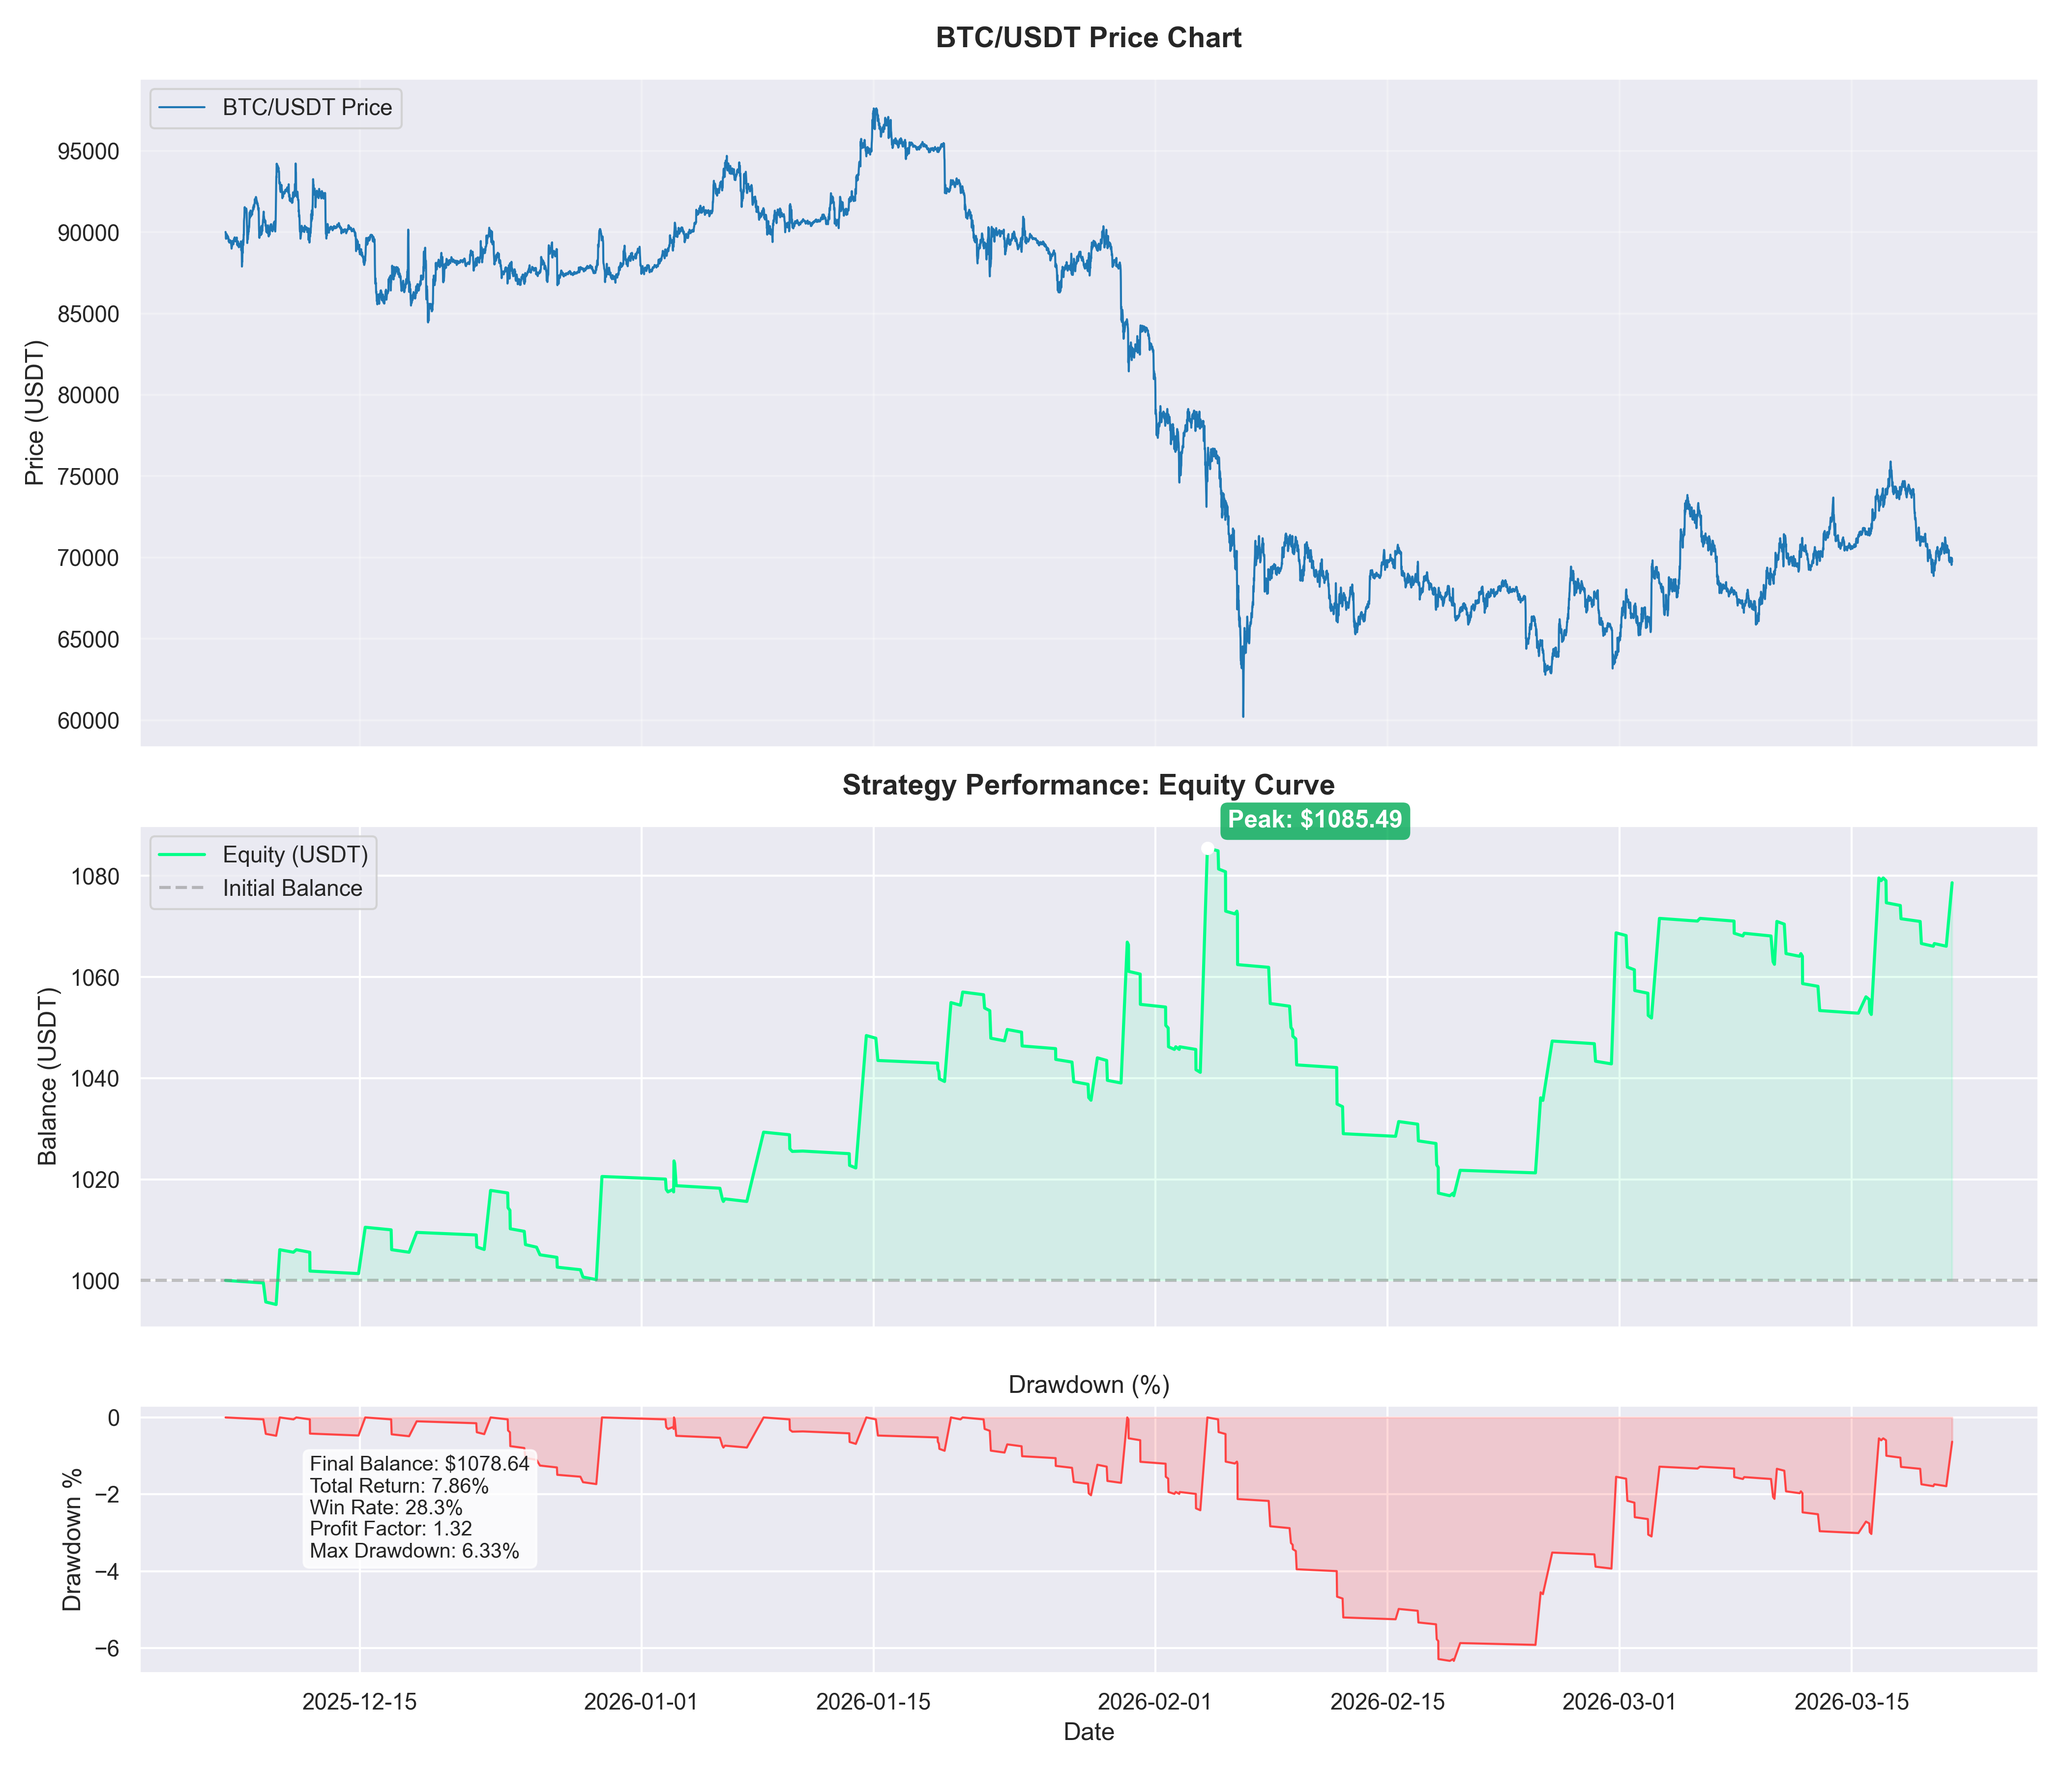
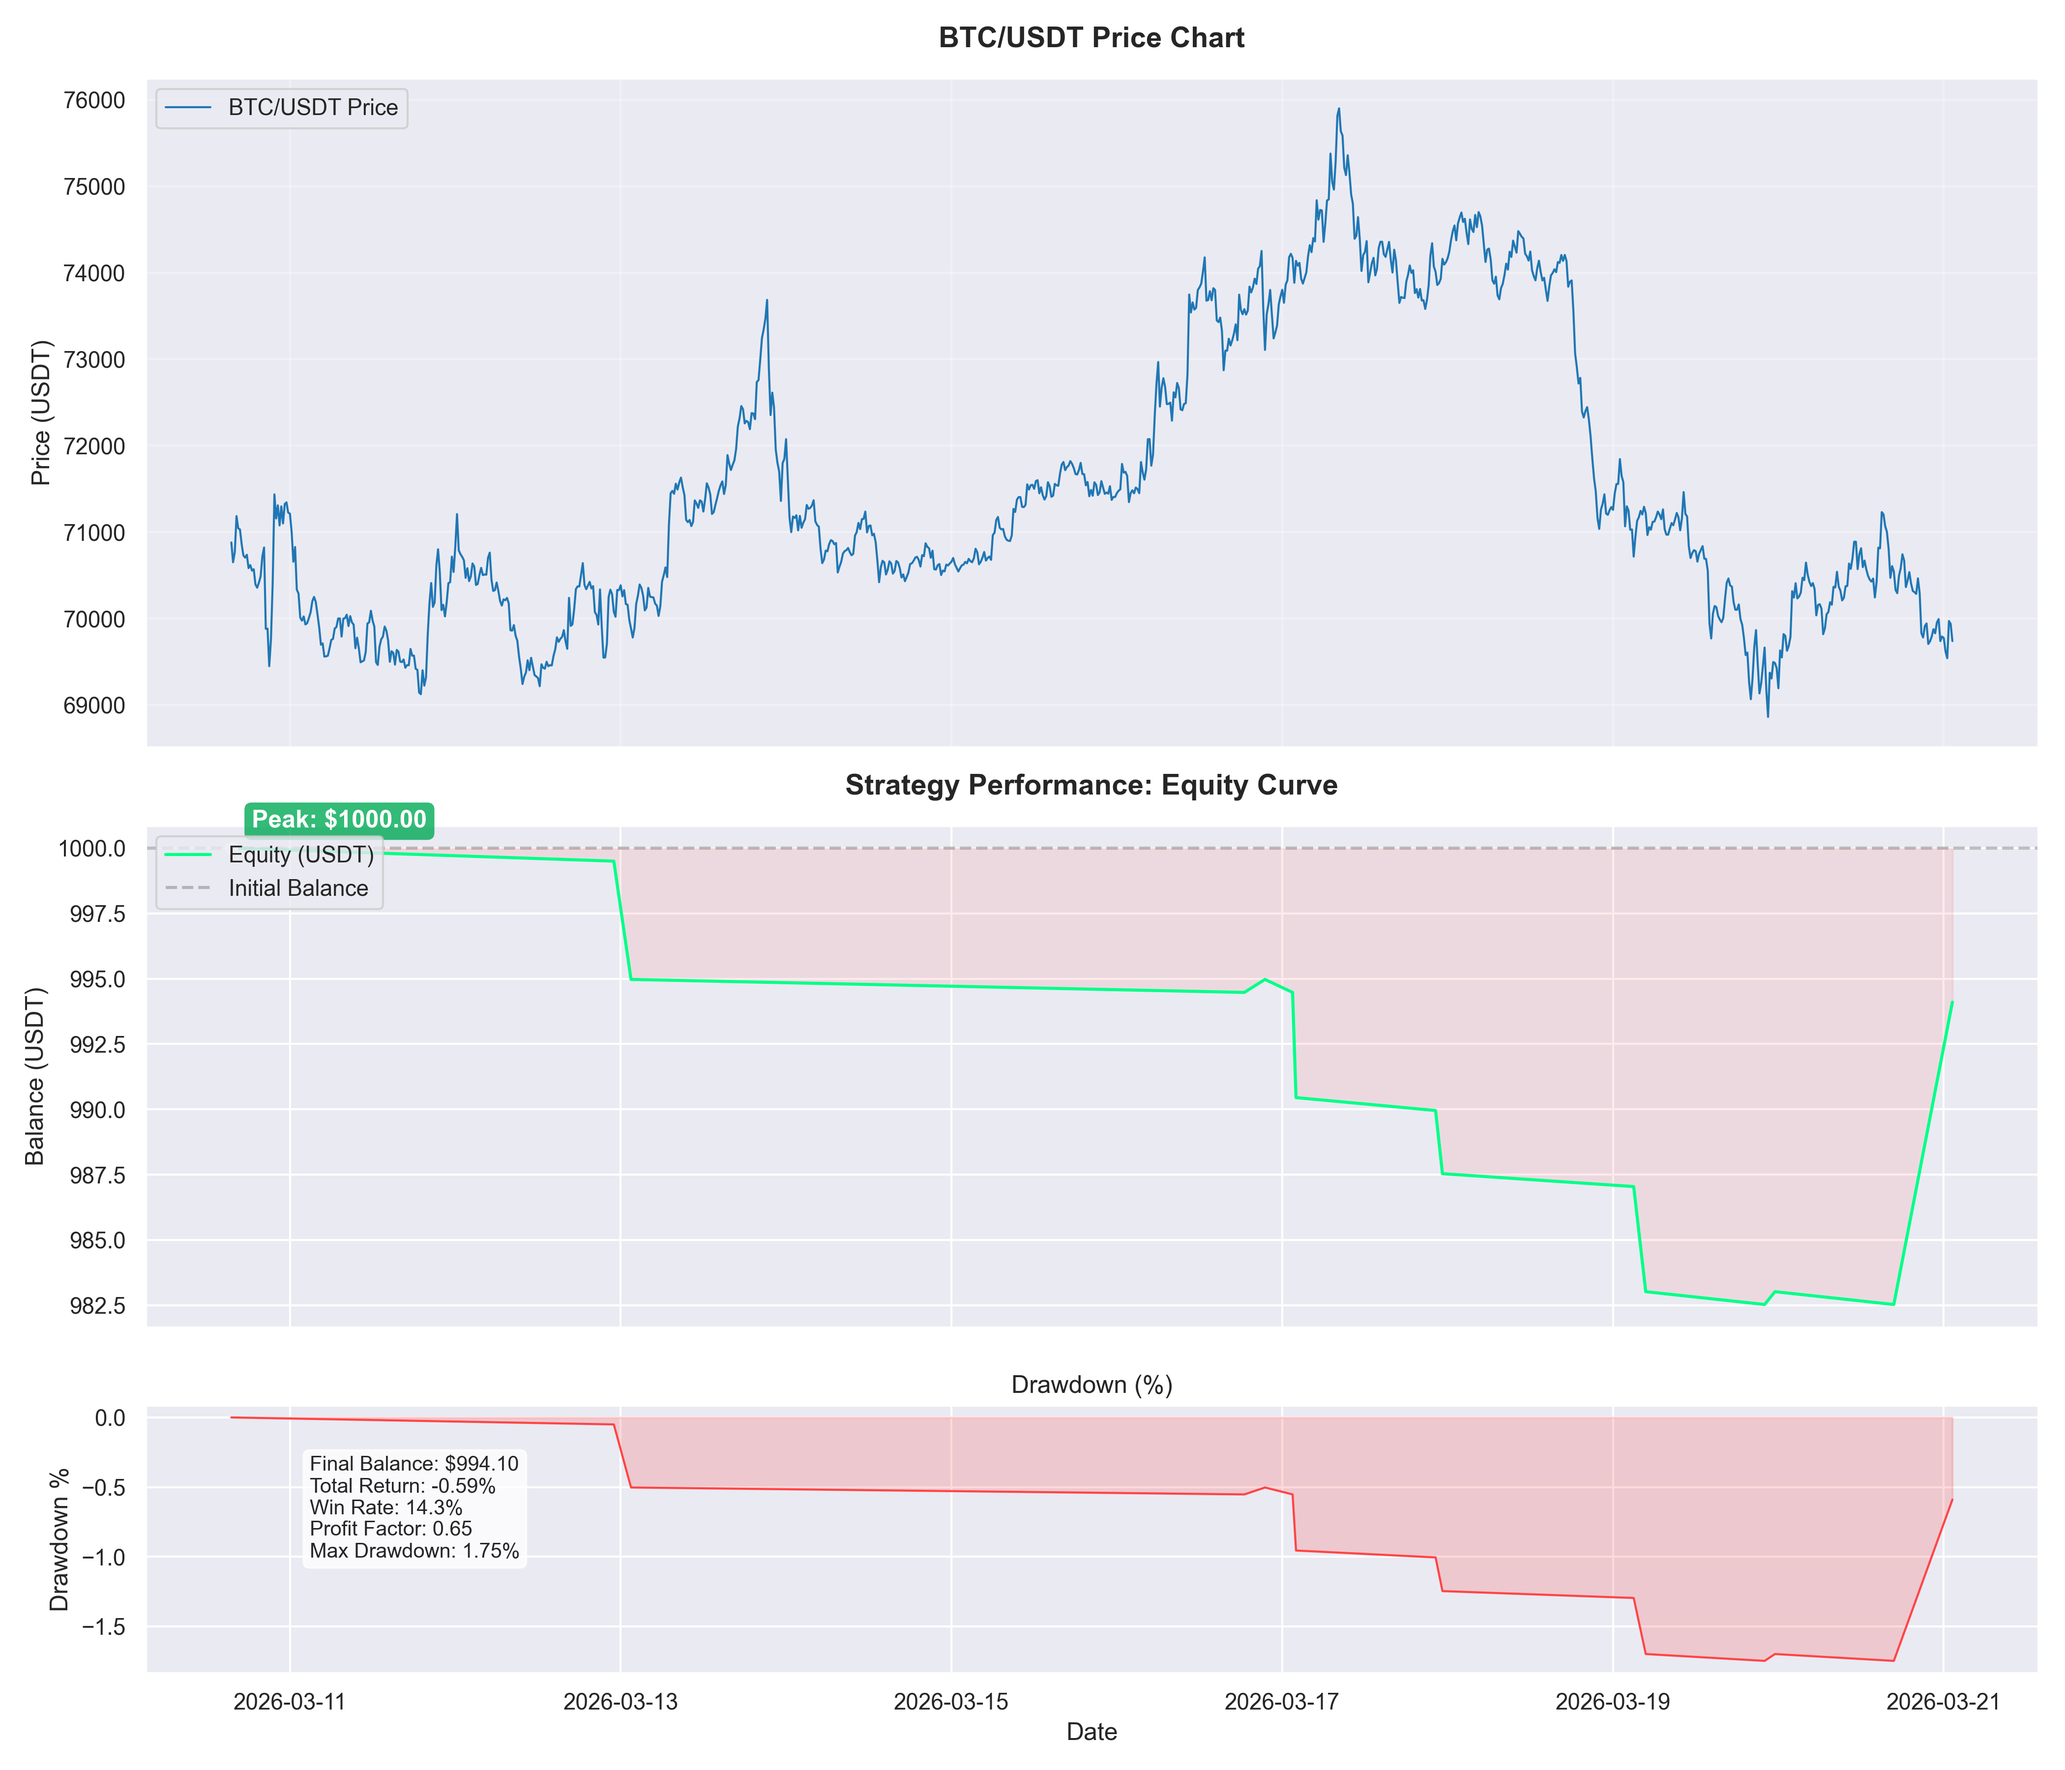
feat: Implement backtest orchestration with HTF filtering, monthly/yearly PnL breakdown, and performance chart generation.

diff --git a/module/backtest/breakdown.py b/module/backtest/breakdown.py
@@ -82,7 +82,7 @@ class BacktestBreakdown:
         lines = []
         lines.append("╔" + "═" * (divider_len + 2) + "╗")
         lines.append(
-            f"║  📅  MONTHLY & YEARLY RETURN BREAKDOWN  (% of Compounding Equity){'':>{divider_len - 63}}║"
+            f"║  📅  MONTHLY & YEARLY RETURN BREAKDOWN  (% of Compounding Equity){'':>{divider_len - 64}}║"
         )
         lines.append("╠" + "═" * (divider_len + 2) + "╣")
         lines.append(f"║ {header} ║")

diff --git a/module/backtest/orchestrator.py b/module/backtest/orchestrator.py
@@ -28,7 +28,7 @@ from module.backtest.data_loader import BacktestDataLoader
 from module.backtest.simulator import Simulator
 from module.backtest.reporter import BacktestReporter
 
-LIMIT = 10000
+LIMIT = 1000
 WORKERS = 5
 SLEEP = 1.5
 GEN_CHART = True
